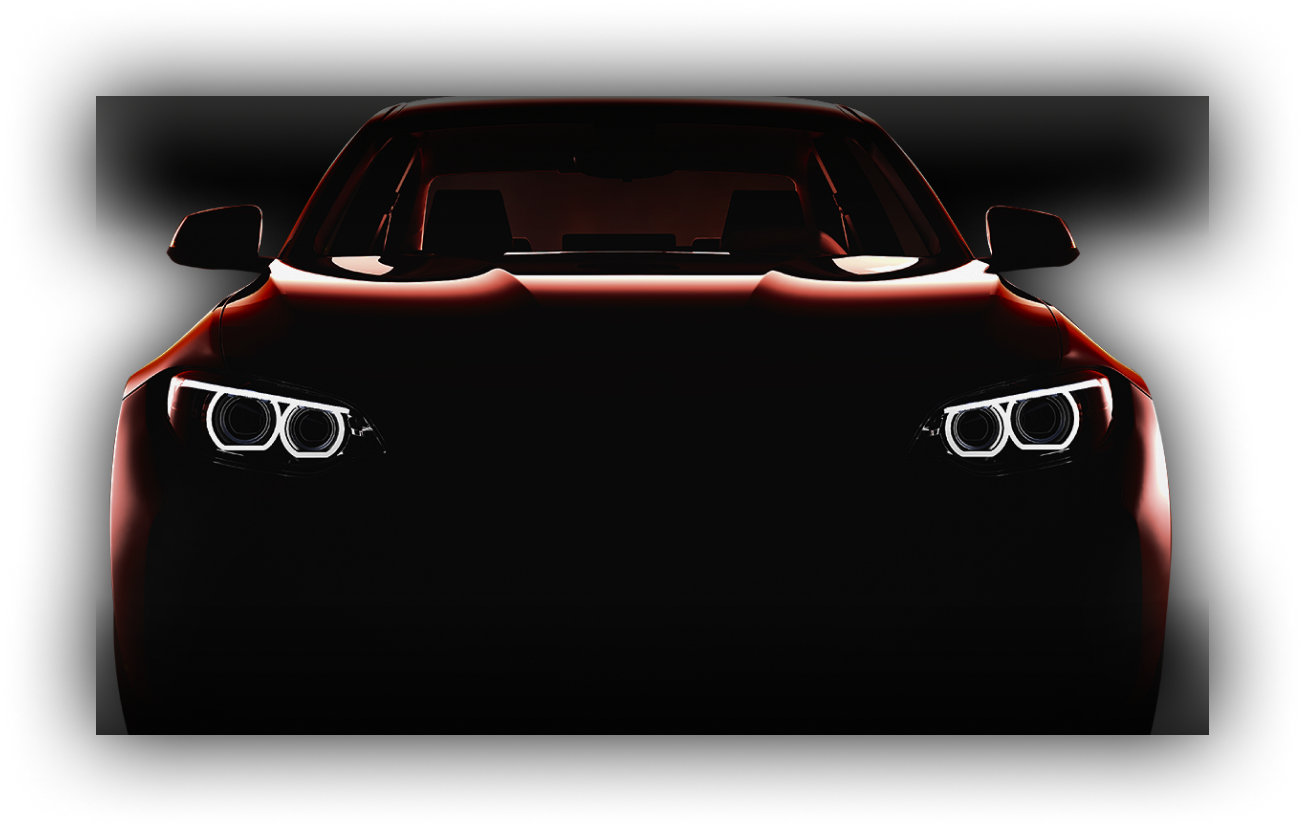
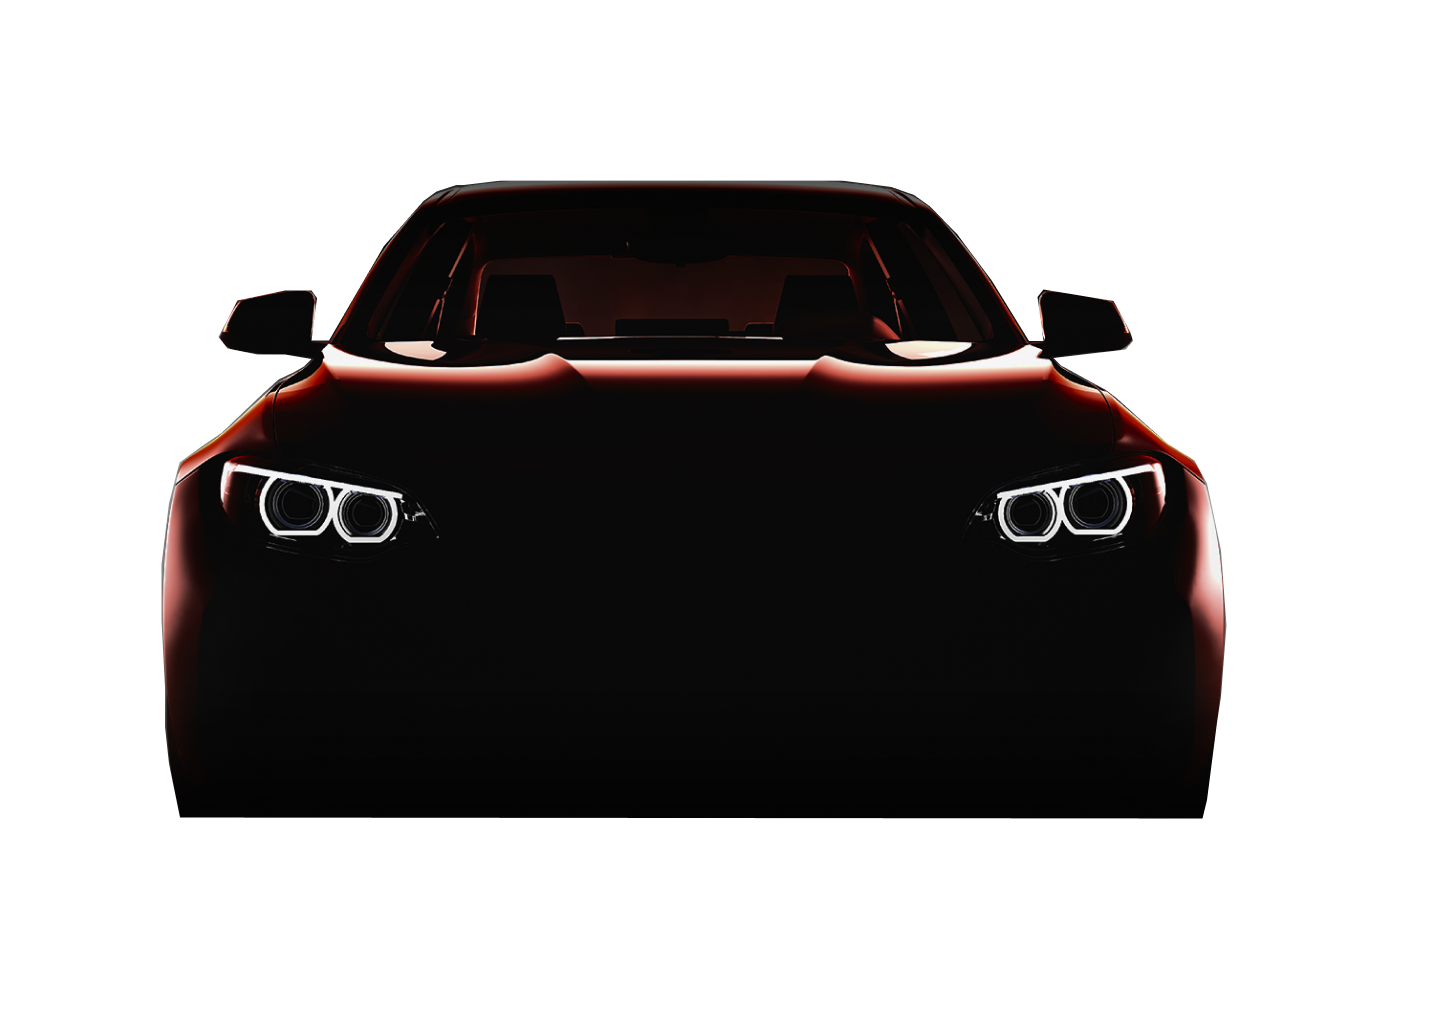
refact style bcg + img

diff --git a/src/components/Main/SectionComment/SectionComment.module.css b/src/components/Main/SectionComment/SectionComment.module.css
@@ -1,5 +1,5 @@
 .section {
-    background-color:#7BF331;
+    background-color:#50C878;
     height: auto;
     position: relative;
     z-index: 2;
@@ -24,12 +24,7 @@
     padding: 10px 20px;
     box-shadow: 1px 2px 3px #000;
     border-radius: 10px;
-    cursor: pointer;
     margin: 10px;
-}
-.container div:hover  {
-    transform: translateX(10px);
-   transition: 1s;
 }
 .bcg {
     background-image: url("../../../../public/assets/img/contactbcg.png");

diff --git a/src/components/Main/SectionContact/SectionContact.module.css b/src/components/Main/SectionContact/SectionContact.module.css
@@ -9,9 +9,8 @@ z-index: 2;
 
 .info {
     display: flex;
-    justify-content: space-between;
+    justify-content: space-around;
     padding: 20px 0;
-    justify-content: center;
     flex-wrap: wrap;
 }
 
@@ -27,7 +26,7 @@ z-index: 2;
 
 .block a {
     text-decoration: none;
-    color: #7BF331;
+    color: #50C878;
     margin-left: 20px;
 }
 

diff --git a/src/App.css b/src/App.css
@@ -80,9 +80,10 @@ section {
 }
 
 .react-tabs__tab-panel {
-  background-color: #d4d1d1;
+  background-color: #a4baf5;
   margin-top: 26px;
-  border: 2px solid #c2bcbc;
+  border: 3px solid #fff;
+  box-shadow: 0px -2px 15px 7px #fff;
 }
 section > .wrapper > .swiper {
   width: 1100px;

diff --git a/src/components/Main/SectionMain/SectionMain.module.css b/src/components/Main/SectionMain/SectionMain.module.css
@@ -44,8 +44,8 @@
     font-size: 20px;
     font-weight: bold;
     margin: 20px 0;
-    color: #7BF331;
-    border-bottom: 1px solid #7BF331;
+    color: #50C878;
+    border-bottom: 1px solid #50C878;
 
 }
 

diff --git a/src/components/Main/SectionSlider/SectionSlider.module.css b/src/components/Main/SectionSlider/SectionSlider.module.css
@@ -44,7 +44,7 @@
   }
 
   100% {
-    text-shadow: 0px 4px 20px #7bf331;
+    text-shadow: 0px 4px 20px #50C878;
   }
 }
 @media (min-width: 300px) and (max-width: 500px) {

diff --git a/src/components/Main/SectionAbout/SectionAbout.module.css b/src/components/Main/SectionAbout/SectionAbout.module.css
@@ -47,7 +47,7 @@
 .block {
   display: flex;
   align-items: center;
-  color: #2be71b;
+  color: #50C878;
   margin-top: 50px;
   font-size: 22px;
 }

diff --git a/src/components/Main/SectionPrice/SectionPrice.module.css b/src/components/Main/SectionPrice/SectionPrice.module.css
@@ -1,7 +1,7 @@
 
 
 .price {
-    background-color:#7BF331;
+    background-color:#50C878;
     height: auto;
    
 }
